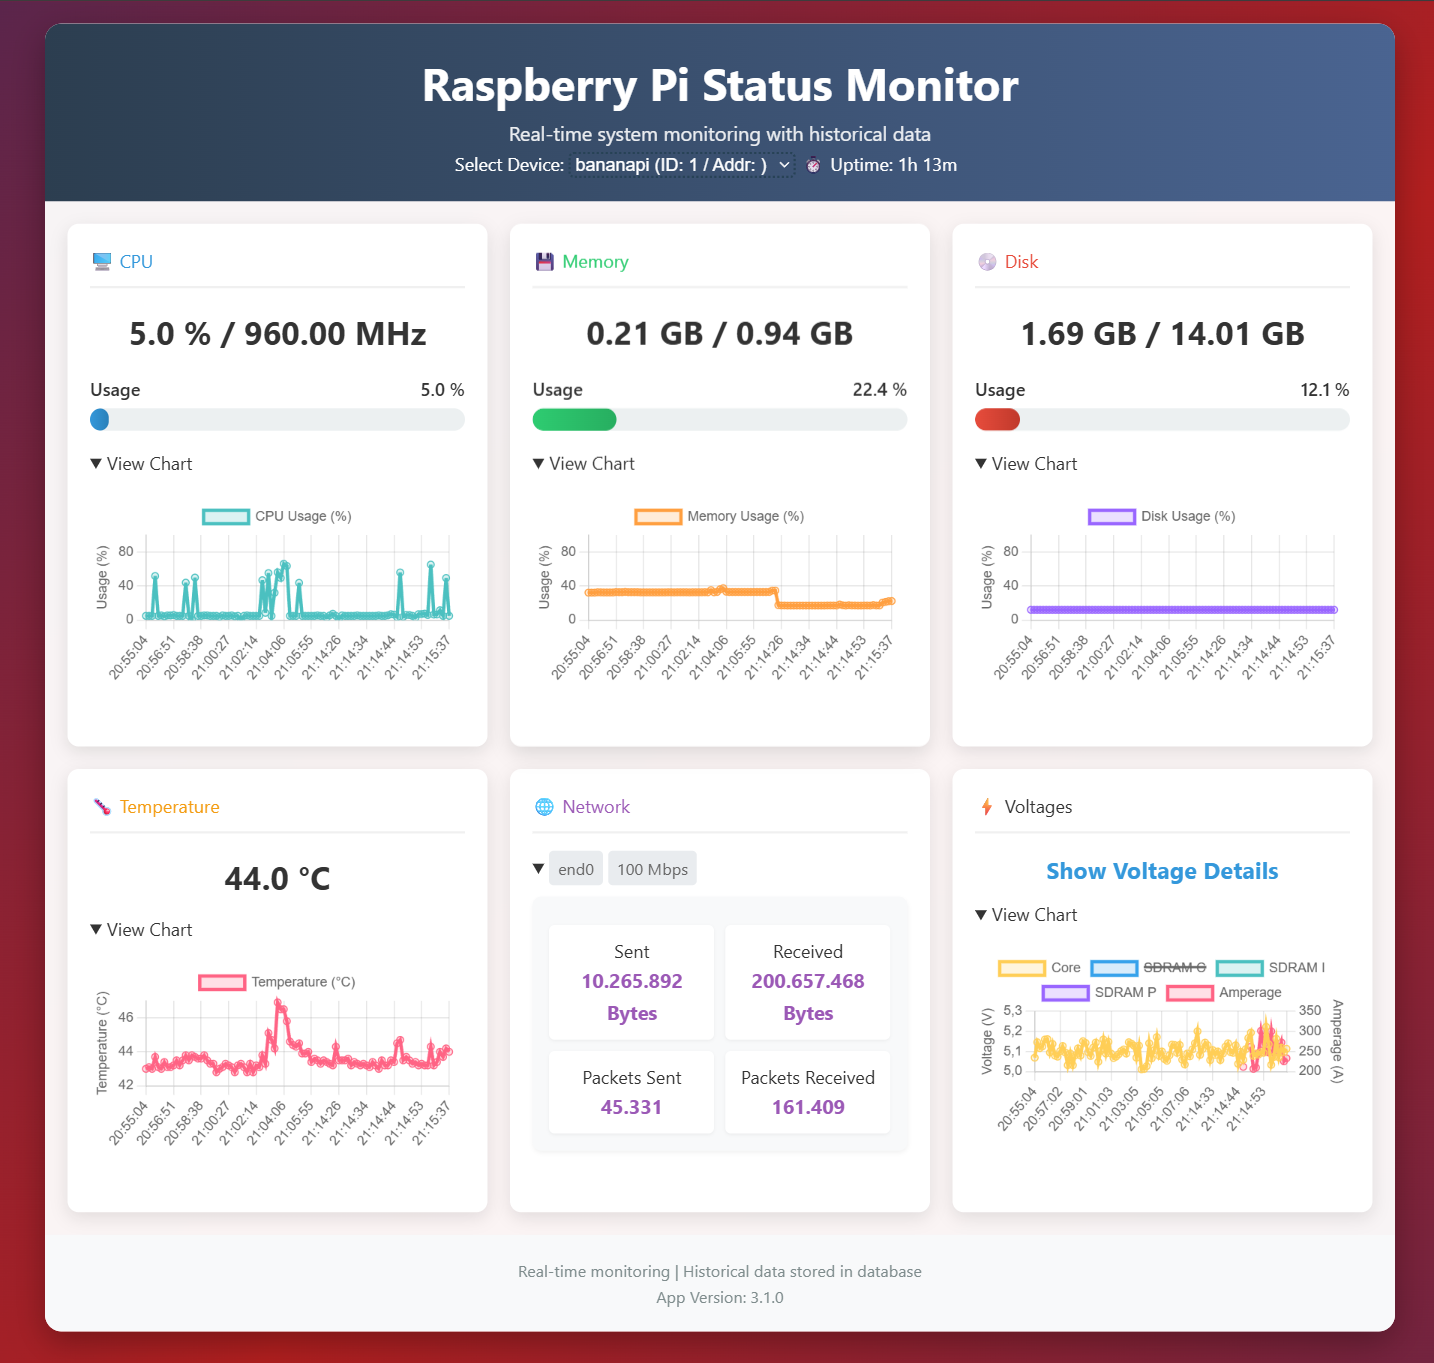
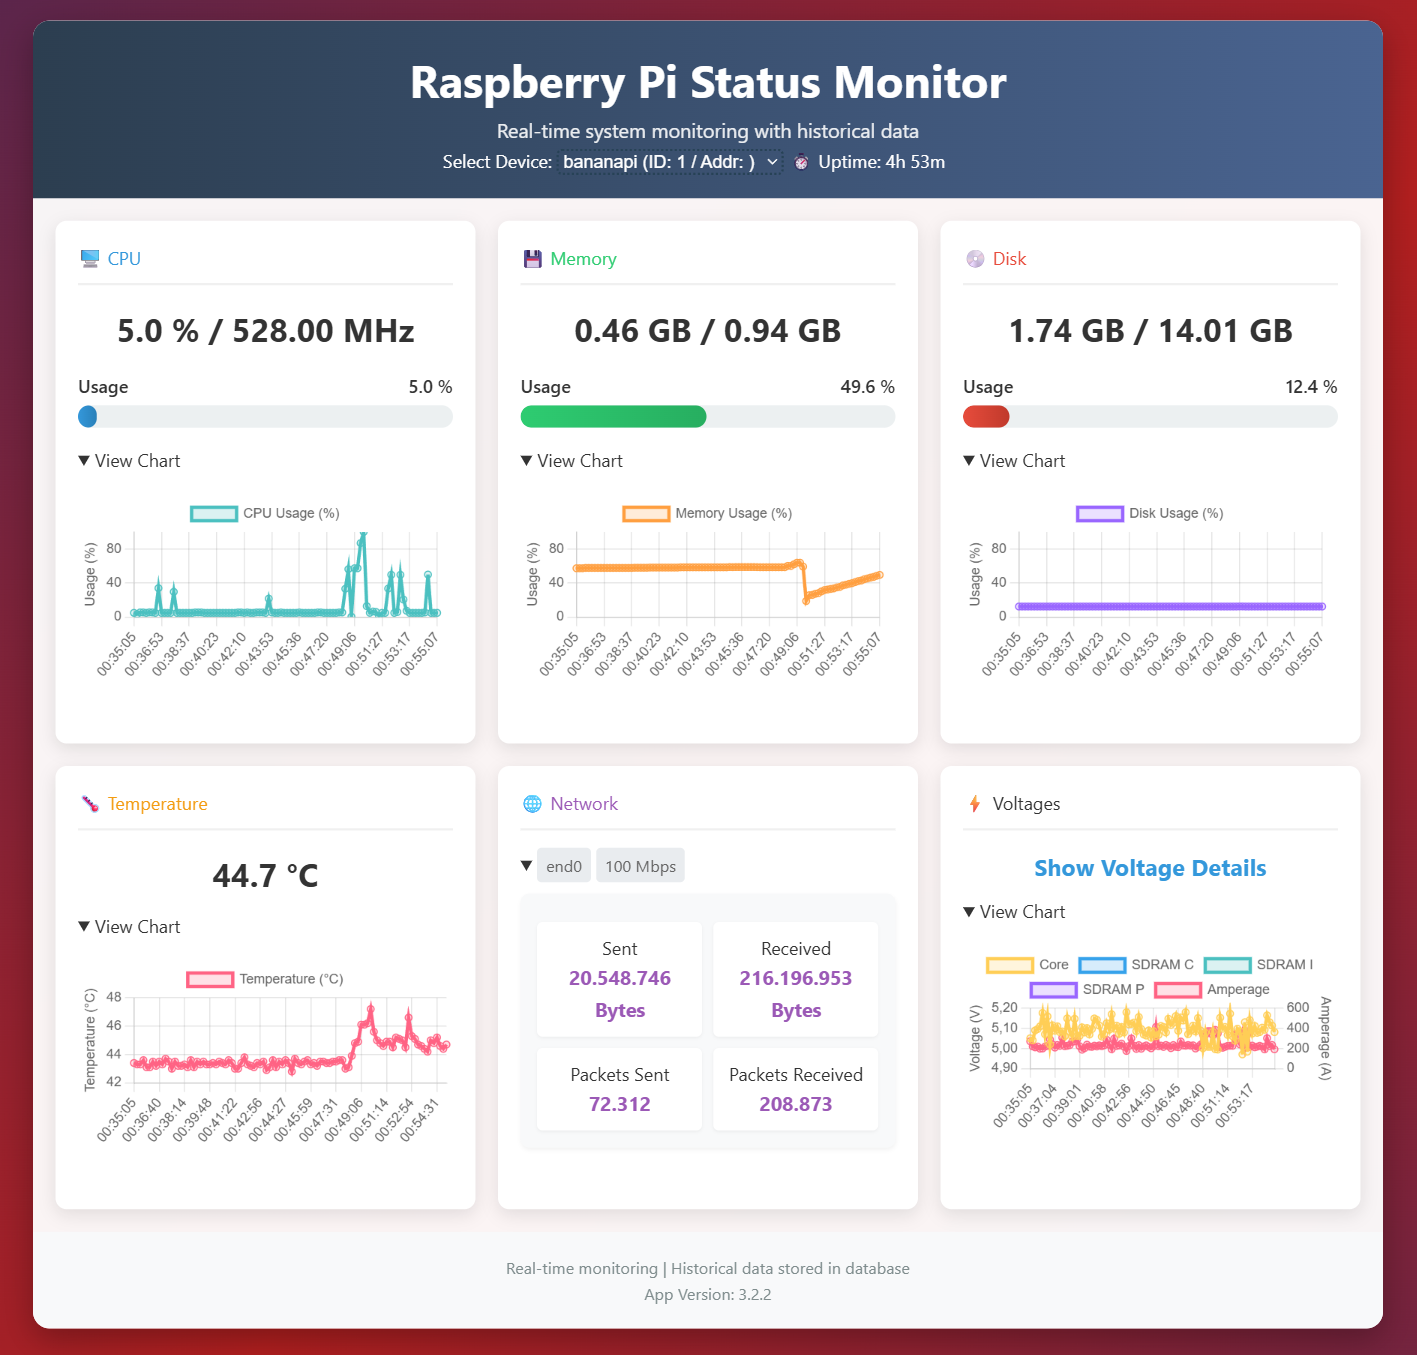
Version management enhancements

diff --git a/scripts/version_updater.py b/scripts/version_updater.py
@@ -1,0 +1,33 @@
+import json
+import re
+
+version_info_file = "../version.json"
+with open("version_info_file") as f:
+    version = json.load(f)["version"]
+
+readme_md_path = "../README.md"
+with open(readme_md_path, "r", encoding="utf-8") as f:
+    content = f.read()
+new_content = re.sub(r"Version: \d+\.\d+\.\d+", f"Version: {version}", content)
+with open(readme_md_path, "w", encoding="utf-8") as f:
+    f.write(new_content)
+
+server_config_path = "../server/server_config.json"
+with open(server_config_path, "r", encoding="utf-8") as f:
+    content = f.read()
+new_content = re.sub(
+    r"\"version\": \"\d+\.\d+\.\d+\"", f"\"version\": \"{version}\"", content
+)
+with open(server_config_path, "w", encoding="utf-8") as f:
+    f.write(new_content)
+
+server_config_path = "../client/client_config.json"
+with open(server_config_path, "r", encoding="utf-8") as f:
+    content = f.read()
+new_content = re.sub(
+    r"\"version\": \"\d+\.\d+\.\d+\"", f"\"version\": \"{version}\"", content
+)
+with open(server_config_path, "w", encoding="utf-8") as f:
+    f.write(new_content)
+
+print("Version update completed.")

diff --git a/README.md b/README.md
@@ -4,6 +4,8 @@
 [![pages-build-deployment](https://github.com/RecNes/Multi-device-RPi-status-monitor/actions/workflows/pages/pages-build-deployment/badge.svg)](https://github.com/RecNes/Multi-device-RPi-status-monitor/actions/workflows/pages/pages-build-deployment)
 [![Pylint](https://github.com/RecNes/Multi-device-RPi-status-monitor/actions/workflows/pylint.yml/badge.svg)](https://github.com/RecNes/Multi-device-RPi-status-monitor/actions/workflows/pylint.yml)
 
+Version: 0.0.0
+
 This project provides a centralized web dashboard for monitoring the system metrics of multiple Raspberry Pi (or other Debian-based) devices. It uses a client-server architecture where lightweight clients send data from each monitored device to a central server, which then displays the information in a real-time web interface.
 
 # Screenshot
